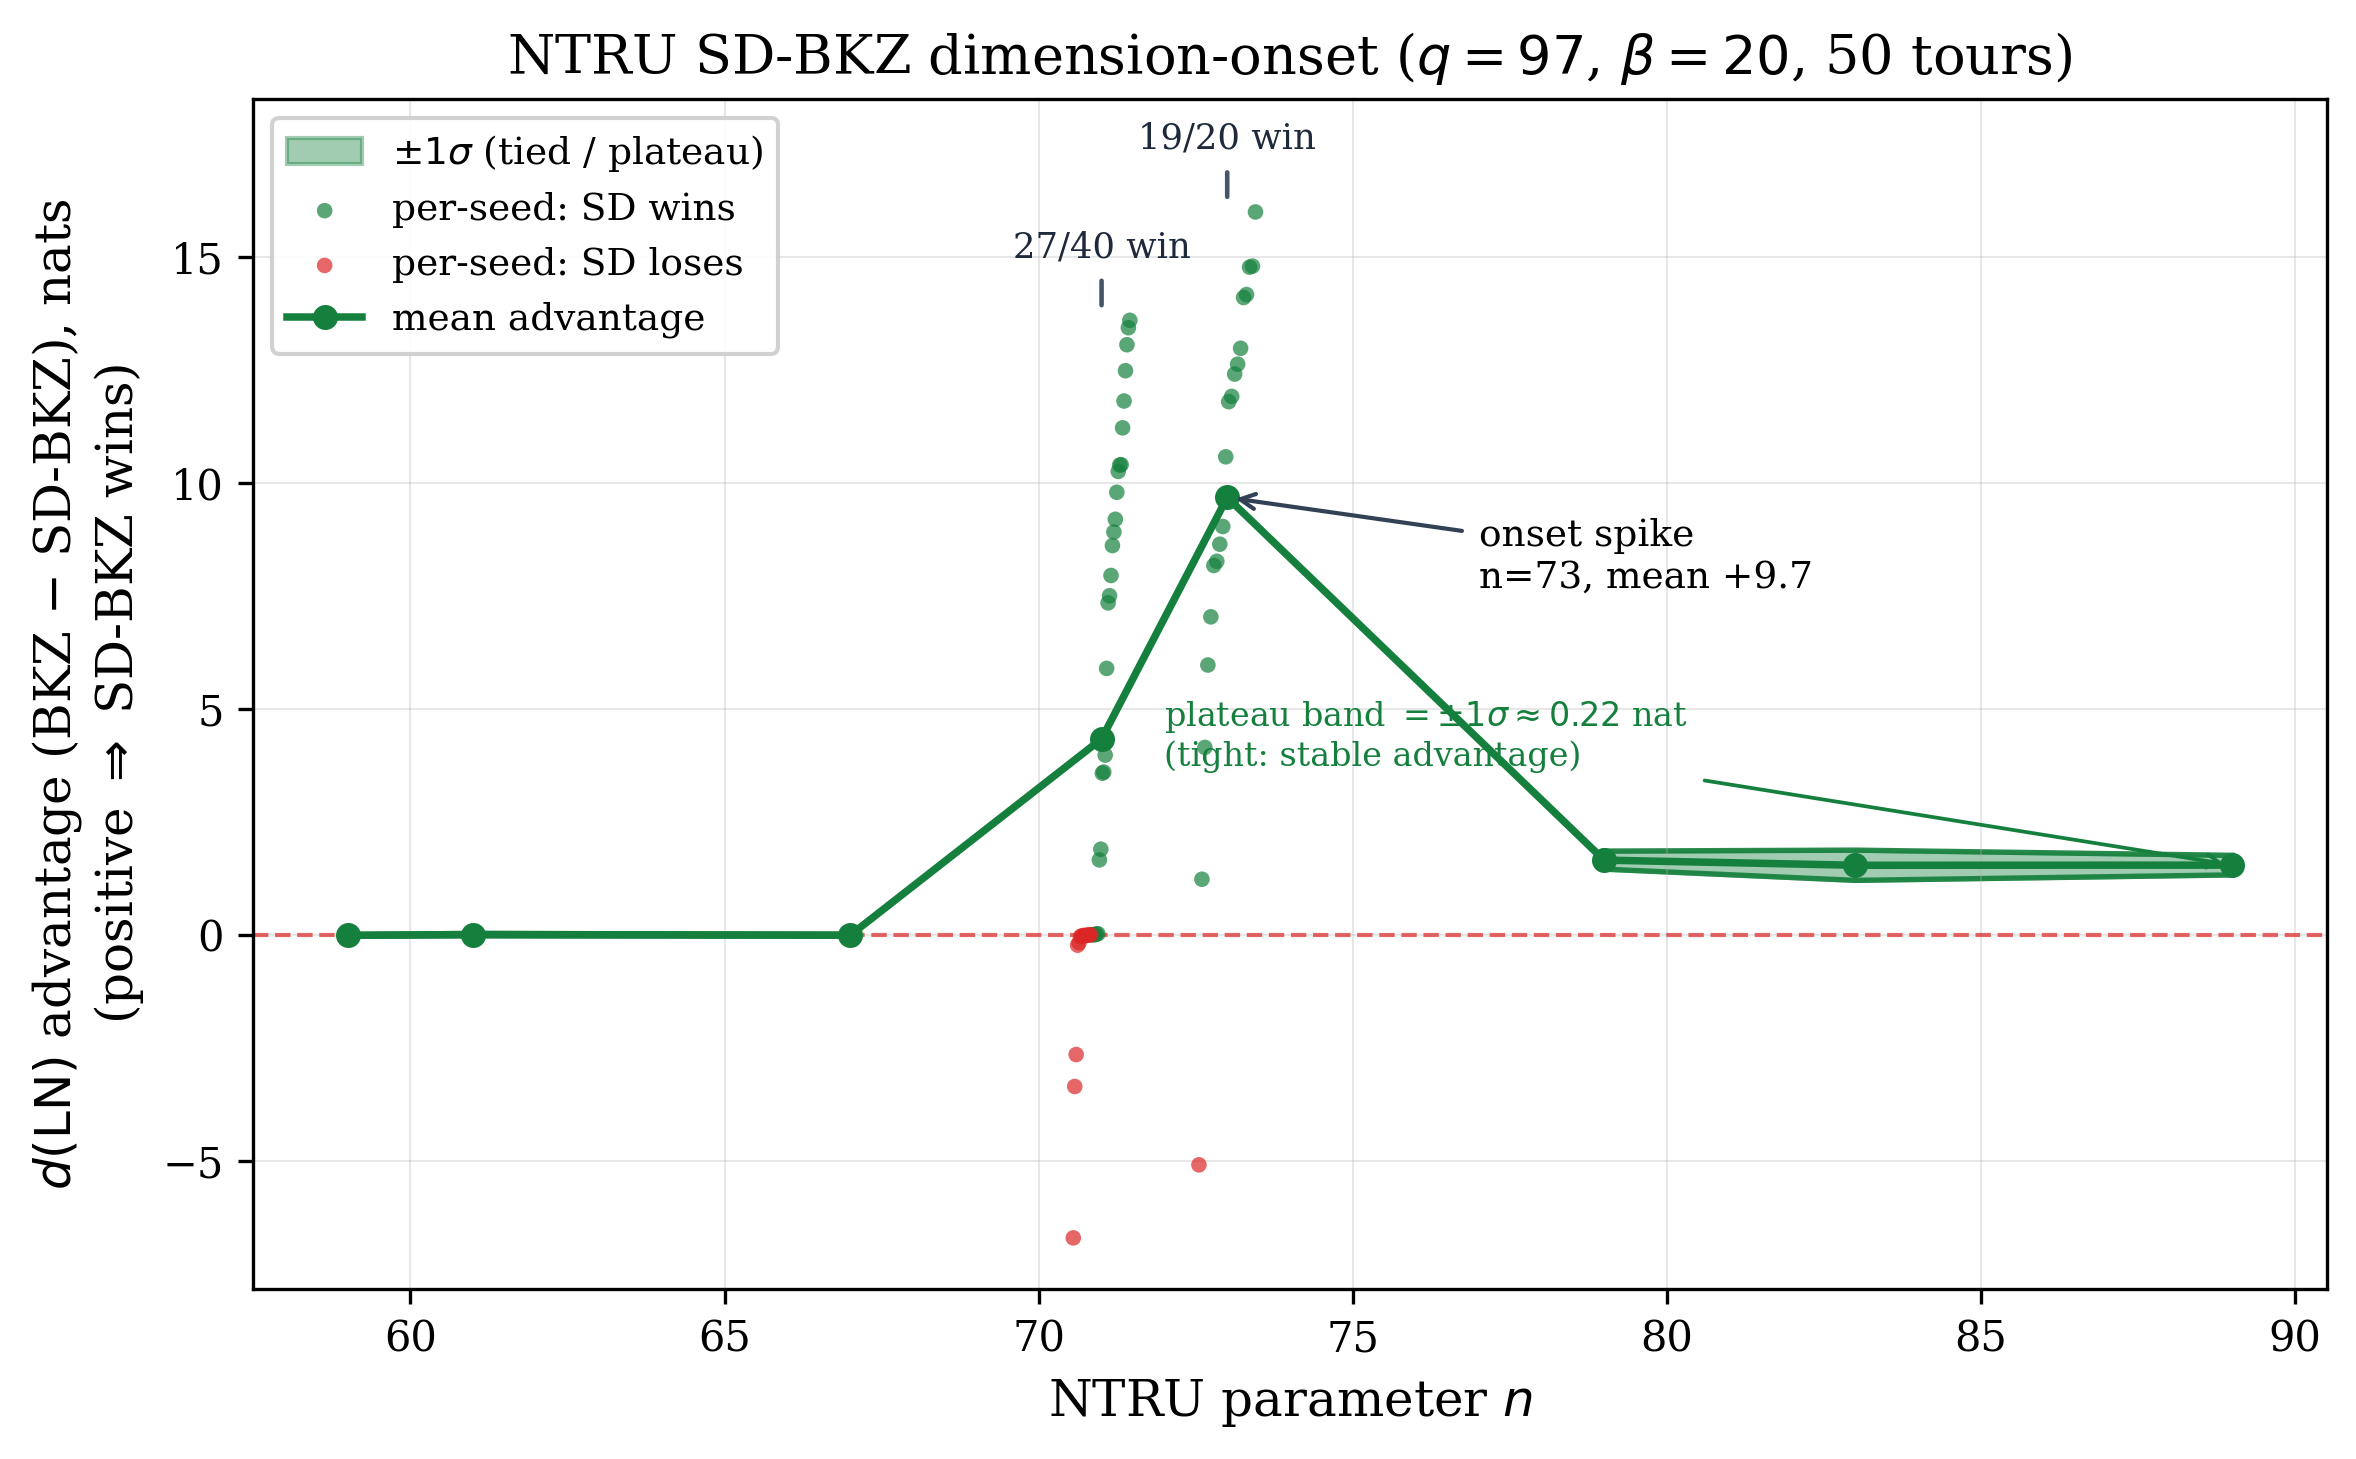
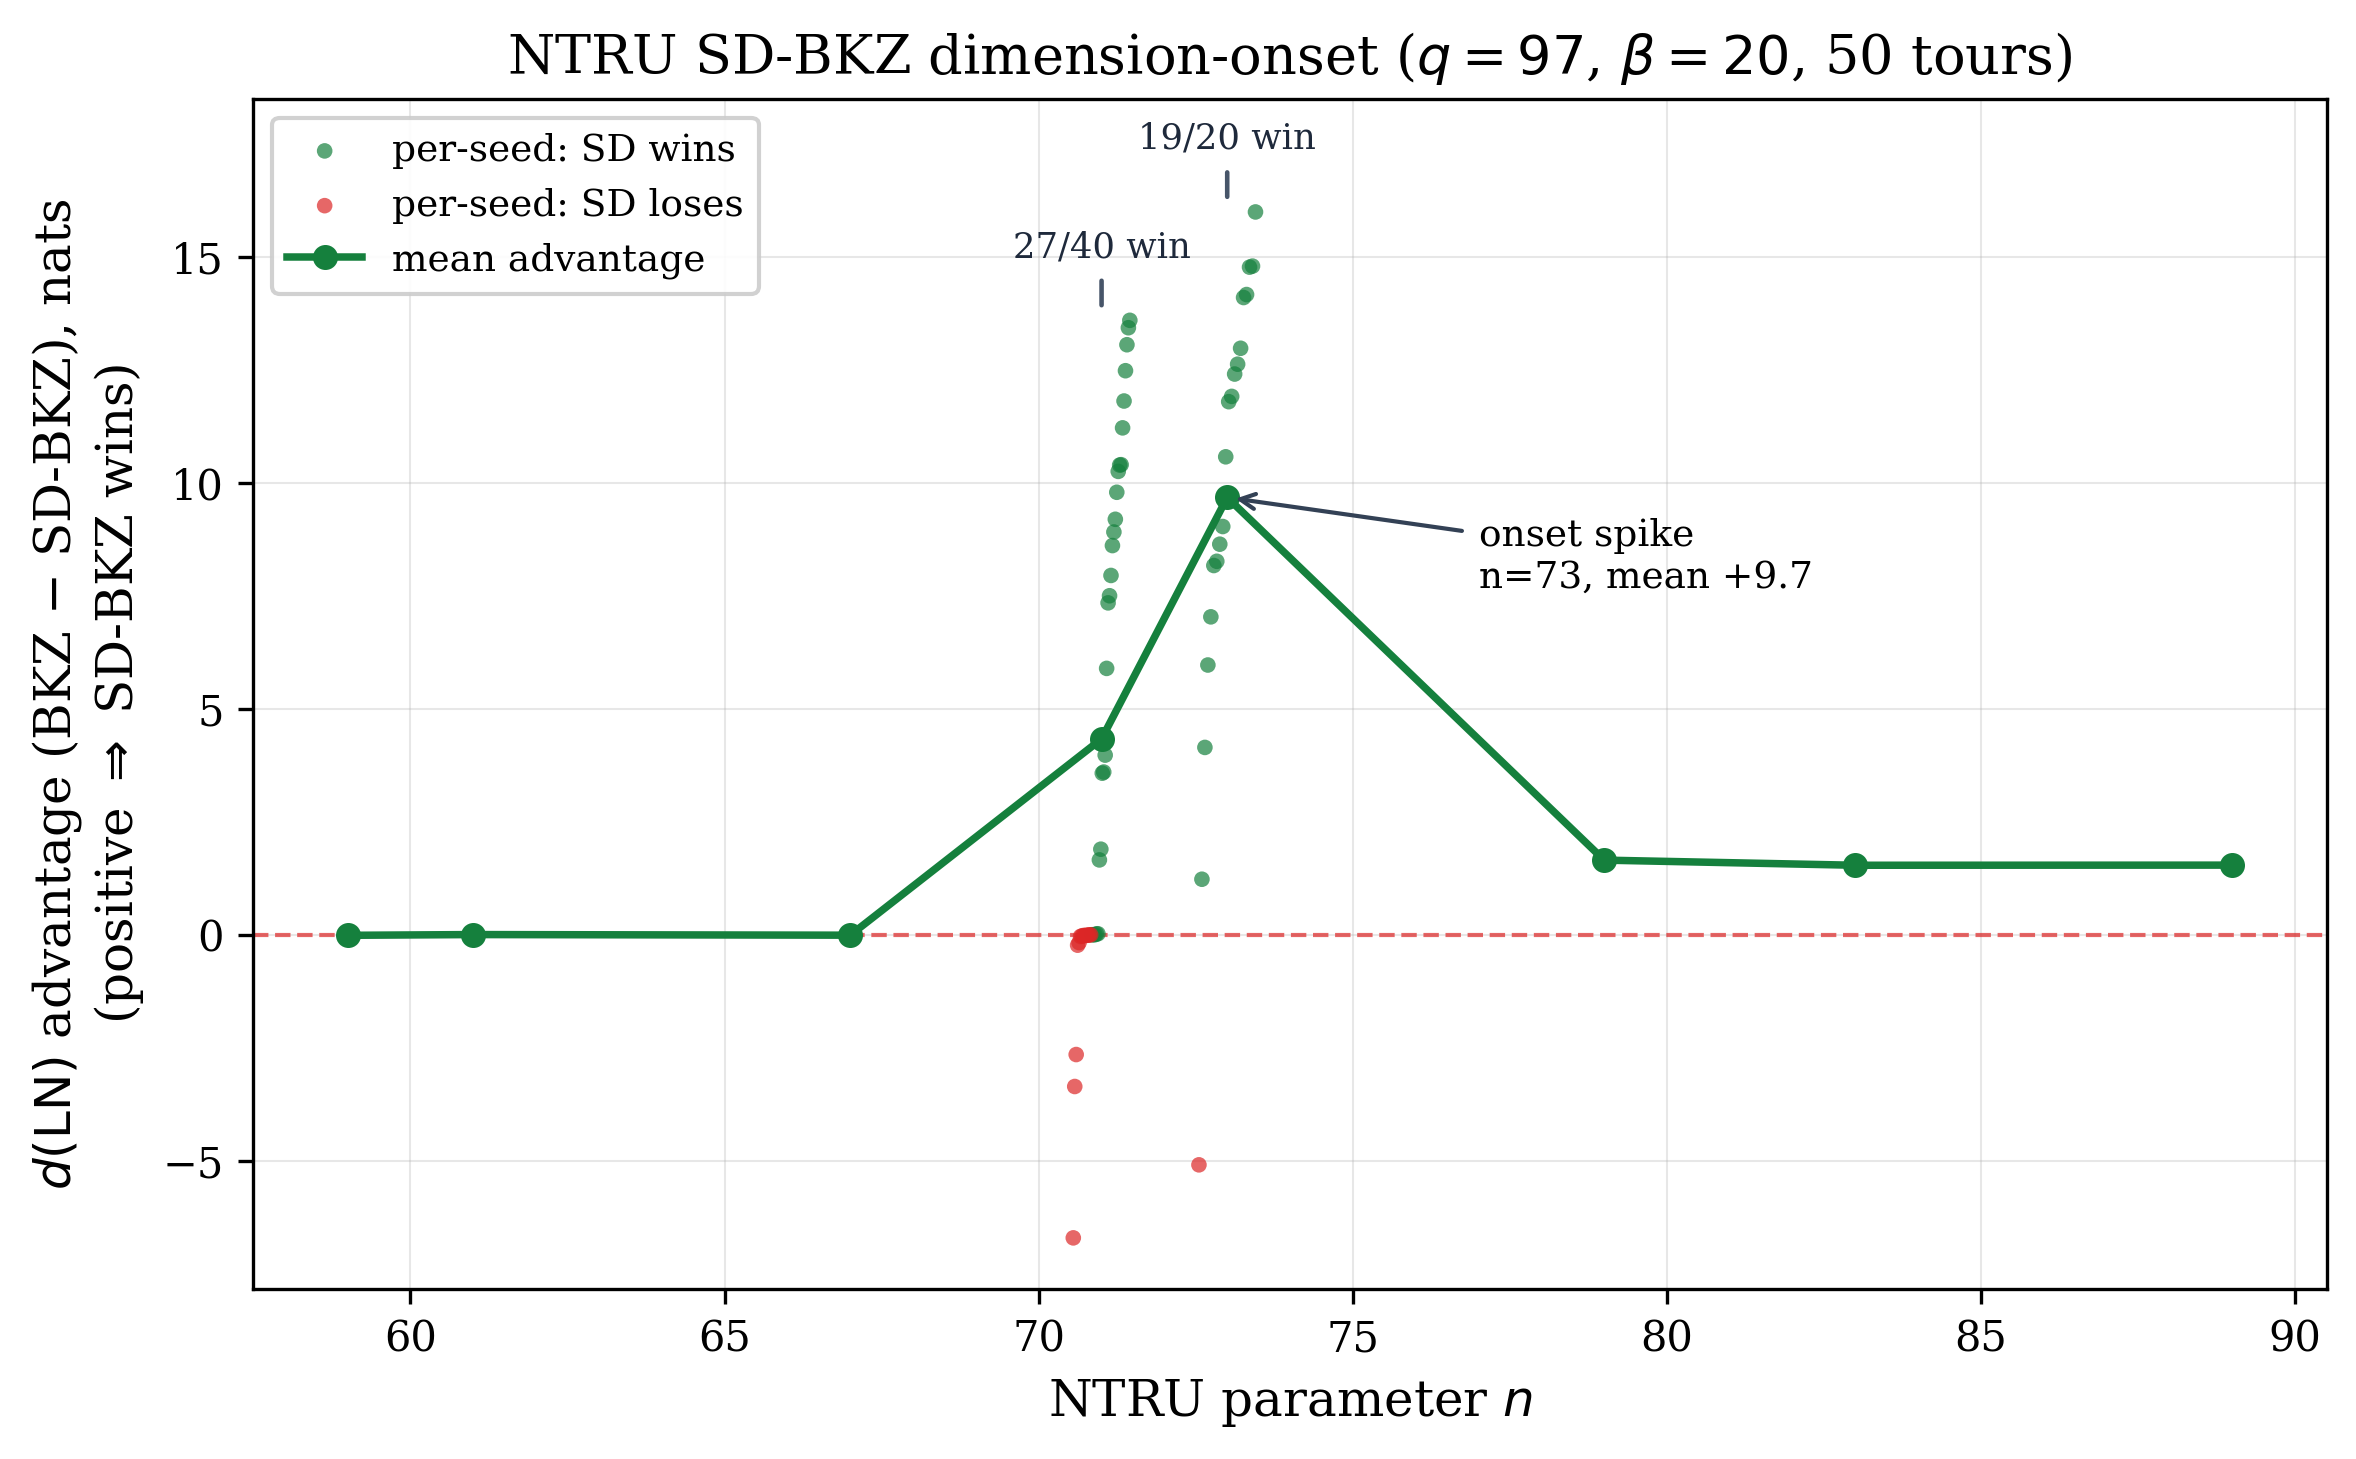
fig(paper2): simplify dimension-onset — drop sigma band + plateau note
Remove the +-1 sigma band (shaded fill, edge lines, legend entry) and the
plateau-band width annotation/arrow from Figure 1. The band crowded the plot
and the green arrow blended into the green plateau it pointed at. Keep the
mean-advantage line, the sign-coloured per-seed scatter in the bimodal onset
zone (n=71-73), and the onset-spike callout. Data unchanged; plateau at
~+1.5 nat (tight, std ~0.2-0.3) is the genuine post-onset SD-BKZ edge.

Changed region(s): [[0.1239, 0.0925, 0.3408, 0.2467], [0.6817, 0.5243, 0.9605, 0.6169], [0.4958, 0.4626, 0.7126, 0.5243]]

diff --git a/analysis/plots/ntru_dimension_onset.py b/analysis/plots/ntru_dimension_onset.py
@@ -7,10 +7,9 @@ recomputed from the per-seed `advantage` field of the ntru campaign seeds
 (results/seeds/ntru/q97/...); no curated constants.
 
 HONESTY: the onset zone n=71-73 is a two-outcome split (at n=71, 27/40 win /
-13 lose), not Gaussian noise, so a +-1 sigma band there would mislead. The
-band is drawn ONLY in the tied and plateau regions where it is honest; in the
-two-mode zone the raw per-seed advantages are scattered (sign-coloured) so both
-modes are visible. Scatter x-spread is deterministic (no RNG -- determinism gate).
+13 lose), not Gaussian noise. There the raw per-seed advantages are scattered
+(sign-coloured) so both modes are visible; elsewhere only the mean line is
+drawn. Scatter x-spread is deterministic (no RNG -- determinism gate).
 """
 import os
 
@@ -19,72 +18,36 @@ import numpy as np
 
 from .._style import COLORS
 
-# Dimensions where the per-seed advantage is bimodal (win/lose); a +-1 sigma
-# band is a spread indicator only here, so we scatter the seeds instead.
+# Dimensions where the per-seed advantage is bimodal (win/lose); we scatter the
+# seeds there to show both modes instead of collapsing them to a mean marker.
 BIMODAL = {71, 73}
-
-
-def _honest_runs(dims):
-    """Contiguous index runs over dims that are NOT in the bimodal zone."""
-    runs, cur = [], []
-    for i, d in enumerate(dims):
-        if d in BIMODAL:
-            if cur:
-                runs.append(cur)
-                cur = []
-        else:
-            cur.append(i)
-    if cur:
-        runs.append(cur)
-    return runs
 
 
 def fig_ntru_dimension_onset(groups, output_dir=".", beta=20, min_seeds=10,
                              fname="dimension_onset.png"):
-    """Mean NTRU SD-BKZ advantage vs n: band in honest regions, per-seed
-    scatter in the two-mode onset zone (n=71-73)."""
-    rows = []  # (n, mean, std, advs)
+    """Mean NTRU SD-BKZ advantage vs n, with per-seed scatter in the two-mode
+    onset zone (n=71-73)."""
+    rows = []  # (n, mean, advs)
     for (n, b), seeds in sorted(groups.items()):
         if b != beta or len(seeds) < min_seeds:
             continue
         advs = np.array([s["advantage"] for s in seeds], dtype=float)
-        rows.append((n, float(advs.mean()), float(advs.std(ddof=1)), advs))
+        rows.append((n, float(advs.mean()), advs))
 
     if not rows:
         raise ValueError(f"no NTRU beta={beta} groups with >= {min_seeds} seeds")
 
     dims = np.array([r[0] for r in rows])
     means = np.array([r[1] for r in rows])
-    stds = np.array([r[2] for r in rows])
     sd_c, zero_c = COLORS["sdbkz"], COLORS["zero"]
 
     fig, ax = plt.subplots(figsize=(8, 5))
     ax.axhline(0.0, color=zero_c, linewidth=1.0, linestyle="--", alpha=0.7, zorder=2)
 
-    # +-1 sigma band ONLY in honest (non-bimodal) contiguous runs. The plateau
-    # std is tight (0.2-0.3), so draw thin band-edge lines as well as the fill,
-    # else the band is imperceptible at the spike's y-scale and its legend entry
-    # has no visible referent.
-    band_lbl = r"$\pm 1\sigma$ (tied / plateau)"
-    plateau_std = None
-    for run in _honest_runs(dims):
-        idx = np.array(run)
-        lo, hi = means[idx] - stds[idx], means[idx] + stds[idx]
-        ax.fill_between(dims[idx], lo, hi, color=sd_c, alpha=0.40, zorder=1,
-                        label=band_lbl)
-        ax.plot(dims[idx], lo, color=sd_c, lw=1.3, alpha=0.9, zorder=1)
-        ax.plot(dims[idx], hi, color=sd_c, lw=1.3, alpha=0.9, zorder=1)
-        band_lbl = None  # legend once
-        # remember a plateau std for the "band is small because variance is
-        # small" note -- the band is genuinely ~0.3 nat on a ~14-nat axis, so
-        # annotate its width explicitly, else it is invisible at this y-scale.
-        if dims[idx].max() >= 79:
-            plateau_std = float(stds[idx][-1])
-
     # Per-seed scatter in the two-mode zone, coloured by sign (win/lose).
     scat_done = False
     scatter_max = 0.0
-    for n, m, s, advs in rows:
+    for n, m, advs in rows:
         if n not in BIMODAL:
             continue
         order = np.argsort(advs)
@@ -107,7 +70,7 @@ def fig_ntru_dimension_onset(groups, output_dir=".", beta=20, min_seeds=10,
         scatter_max = max(scatter_max, float(a.max()))
         scat_done = True
 
-    # Mean line across all n (zorder above band, below scatter labels).
+    # Mean line across all n (below scatter labels).
     ax.plot(dims, means, color=sd_c, marker="o", markersize=5, linewidth=1.8,
             zorder=3, label="mean advantage")
 
@@ -119,16 +82,6 @@ def fig_ntru_dimension_onset(groups, output_dir=".", beta=20, min_seeds=10,
         fontsize=9,
         arrowprops=dict(arrowstyle="->", color="#334155", lw=1.0),
     )
-
-    # plateau-band note: the band IS drawn but is ~0.3 nat tall on a ~14-nat
-    # axis -- say so, else the legend entry reads as a lie to a cold viewer.
-    if plateau_std is not None:
-        ax.annotate(rf"plateau band $=\pm 1\sigma \approx {plateau_std:.2f}$ nat"
-                    "\n(tight: stable advantage)",
-                    xy=(dims.max(), means[-1]),
-                    xytext=(dims.max() - 17, means[-1] + 2.2),
-                    fontsize=8, color=sd_c,
-                    arrowprops=dict(arrowstyle="->", color=sd_c, lw=0.9))
 
     ax.set_xlabel("NTRU parameter $n$")
     ax.set_ylabel(r"$d(\mathrm{LN})$ advantage (BKZ $-$ SD-BKZ), nats"
